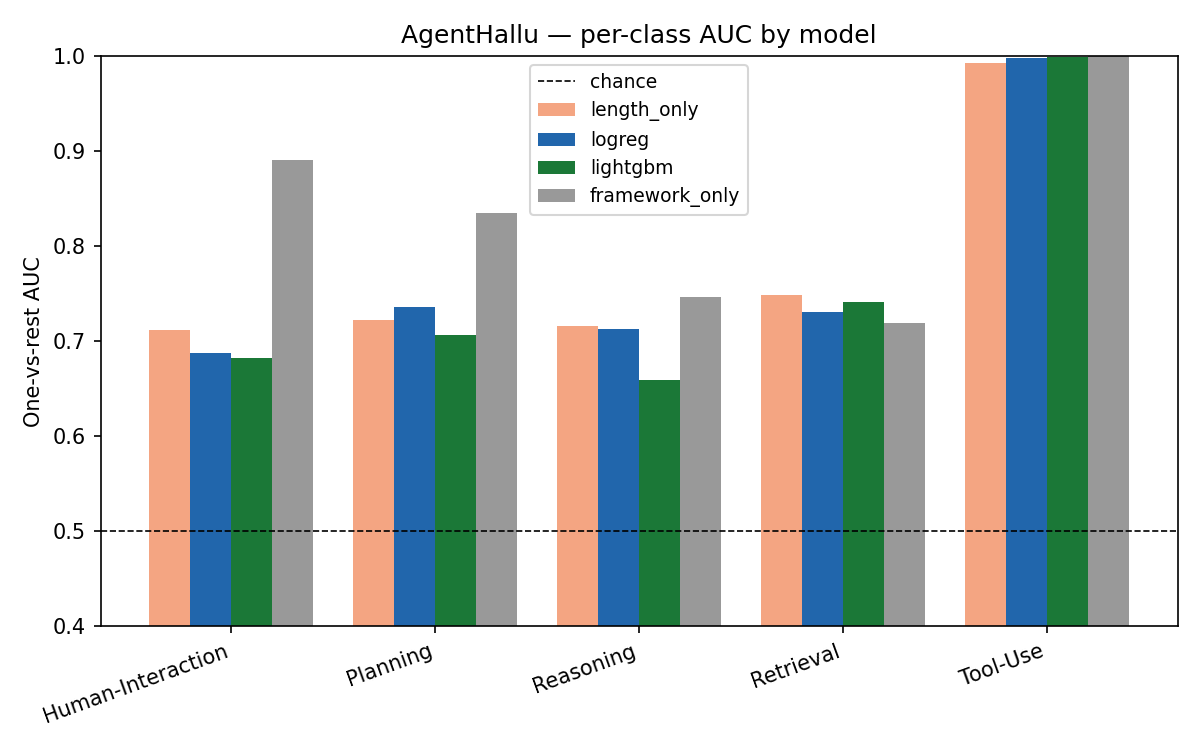
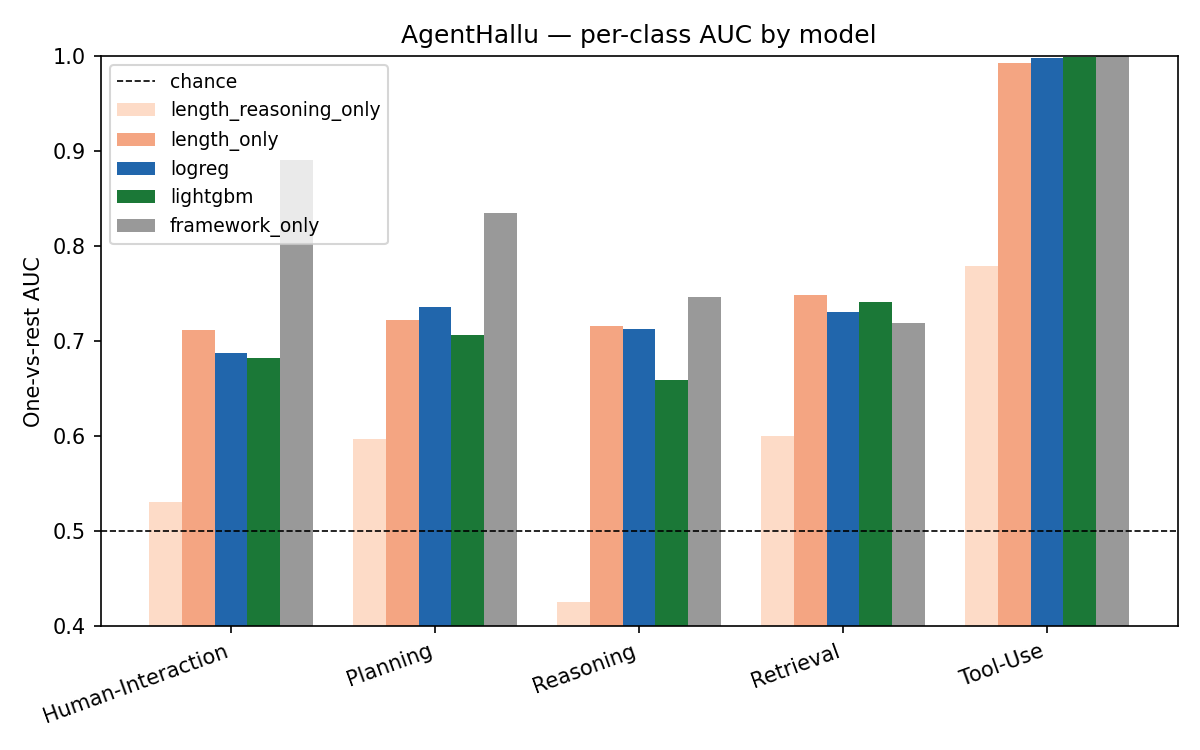
SH6 Stage-5f/5g: add length_reasoning_only baseline, expose answer_n_chunks leakage
The length_only structural baseline (3 chunk-count features) leaks
framework identity through answer_n_chunks: BFCL items have 0 answer
chunks while every other framework has ≥1, and BFCL holds 100% of all
Tool-Use Hallucination cases. The length_only macro AUC of 0.778 on
full AgentHallu was therefore mostly a framework fingerprint, not a
structural signal.

Adds `length_reasoning_only` (just `reasoning_n_chunks`) as the honest
length baseline. The cleanest "shape lift" anchor is now this, not
length_only.

Full AgentHallu (n=443):
  length_reasoning_only:    0.587
  length_only:              0.778   ← +0.192 [+0.160, +0.223]: PURE LEAK
  logreg trajectory_full:   0.773
  lightgbm trajectory_full: 0.758
  framework_only:           0.838

  Δ length_only − length_reasoning_only = +0.192 (significant) directly
  quantifies the leak: adding answer_n_chunks adds 0.192 macro AUC to
  the baseline without contributing any genuine new content signal.

OpenManus (n=84, framework controlled, no leak possible):
  length_reasoning_only:    0.520
  length_only:              0.671   ← real within-framework signal
  logreg:                   0.682
  lightgbm:                 0.712

  Δ lightgbm − length_reasoning_only = +0.194 [+0.081, +0.299]
  significant. With framework constant, both length and shape features
  carry real signal.

Reports and per-class AUC plots updated to show all five baselines
side by side. The length_only confusion matrix is kept as a leakage
[…]

diff --git a/experiments/sh6_llm-pairwise-slod/scripts/05g_agenthallu_categories.py b/experiments/sh6_llm-pairwise-slod/scripts/05g_agenthallu_categories.py
@@ -77,17 +77,25 @@ def _load_labels(dataset_root: Path) -> pd.DataFrame:
 
 
 def _build_estimators(random_state: int, feature_cols: list[str]) -> dict[str, Pipeline]:
-    """Four estimators on the same CV folds:
+    """Five estimators on the same CV folds:
 
-    - ``length_only``      — 3 chunk-count features (structural baseline,
-                             matches the ``length_only`` set in Stage-5).
-                             Lift of trajectory_full over this isolates the
-                             contribution of SLoD shape features.
-    - ``logreg``           — logistic regression on trajectory_full.
-    - ``lightgbm``         — gradient boosting on trajectory_full.
-    - ``framework_only``   — logreg on one-hot ``framework``. Lift over this
-                             tells us how much signal is not just framework
-                             leakage.
+    - ``length_reasoning_only`` — just ``reasoning_n_chunks``. The honest
+                                  length baseline: cannot leak framework
+                                  identity through answer-channel presence.
+    - ``length_only``           — 3 chunk-count features. Kept as a *leakage
+                                  diagnostic*: ``answer_n_chunks`` is 0 for
+                                  100% of BFCL items and >0 elsewhere, so
+                                  it acts as a near-perfect framework
+                                  fingerprint. Treat its lift over
+                                  length_reasoning_only as a measure of how
+                                  much "answer-channel presence" leaks into
+                                  what looks like a structural baseline.
+    - ``logreg``                — logreg on trajectory_full.
+    - ``lightgbm``              — gradient boosting on trajectory_full.
+    - ``framework_only``        — logreg on one-hot ``framework``.
+
+    The cleanest "shape lift" is trajectory_full minus
+    length_reasoning_only, *not* minus length_only.
     """
     from lightgbm import LGBMClassifier
 
@@ -101,6 +109,7 @@ def _build_estimators(random_state: int, feature_cols: list[str]) -> dict[str, P
         ])
 
     return {
+        "length_reasoning_only": _logreg_pipe(),
         "length_only": _logreg_pipe(),
         "logreg": _logreg_pipe(),
         "lightgbm": Pipeline([
@@ -201,6 +210,7 @@ def _plot_per_class_auc(results: dict, classes: list[str], out_path: Path) -> No
 
     fig, ax = plt.subplots(figsize=(8, 5))
     palette = {
+        "length_reasoning_only": "#fddbc7",
         "length_only": "#f4a582",
         "logreg": "#2166ac",
         "lightgbm": "#1b7837",
@@ -266,8 +276,8 @@ def main() -> int:
     cv = StratifiedKFold(n_splits=args.cv_folds, shuffle=True, random_state=args.random_state)
     estimators = _build_estimators(args.random_state, feature_cols)
 
-    LENGTH_COLS = ["reasoning_n_chunks", "answer_n_chunks", "total_n_chunks"]
-    LENGTH_COLS = [c for c in LENGTH_COLS if c in feature_cols]
+    LENGTH_COLS = [c for c in ("reasoning_n_chunks", "answer_n_chunks", "total_n_chunks") if c in feature_cols]
+    LENGTH_REASONING_COLS = [c for c in ("reasoning_n_chunks",) if c in feature_cols]
 
     results: dict[str, dict] = {}
     for name, est in estimators.items():
@@ -275,6 +285,8 @@ def main() -> int:
             X_in = X[["framework"]]
         elif name == "length_only":
             X_in = X[LENGTH_COLS]
+        elif name == "length_reasoning_only":
+            X_in = X[LENGTH_REASONING_COLS]
         else:
             X_in = X[feature_cols]
         logger.info("Fitting %s on %d items × %s", name, len(failures), X_in.shape)
@@ -301,12 +313,19 @@ def main() -> int:
         y, results["framework_only"]["probs"], results["lightgbm"]["probs"], args.n_bootstrap, rng)
     delta_logreg_vs_fw = _bootstrap_paired_macro_auc(
         y, results["framework_only"]["probs"], results["logreg"]["probs"], args.n_bootstrap, rng)
-    # Lift of shape over chunk counts — the cleanest answer to
-    # "do SLoD shape features add anything?".
+    # Lift of shape over chunk counts. We anchor on length_reasoning_only —
+    # the honest length baseline — because length_only leaks framework
+    # identity through answer_n_chunks (BFCL has 0 answer chunks → perfectly
+    # tags Tool-Use Hallucination).
     delta_logreg_vs_length = _bootstrap_paired_macro_auc(
-        y, results["length_only"]["probs"], results["logreg"]["probs"], args.n_bootstrap, rng)
+        y, results["length_reasoning_only"]["probs"], results["logreg"]["probs"], args.n_bootstrap, rng)
     delta_lgbm_vs_length = _bootstrap_paired_macro_auc(
-        y, results["length_only"]["probs"], results["lightgbm"]["probs"], args.n_bootstrap, rng)
+        y, results["length_reasoning_only"]["probs"], results["lightgbm"]["probs"], args.n_bootstrap, rng)
+    # Quantify the leakage: length_only over length_reasoning_only. The
+    # bigger this is, the more the conventional 3-feature length baseline
+    # is just a framework fingerprint.
+    delta_length_leakage = _bootstrap_paired_macro_auc(
+        y, results["length_reasoning_only"]["probs"], results["length_only"]["probs"], args.n_bootstrap, rng)
 
     summary = {
         "n_items": int(len(failures)),
@@ -325,8 +344,9 @@ def main() -> int:
             "lightgbm_minus_logreg": dict(zip(("mean", "ci_low", "ci_high"), delta_lgbm_vs_logreg)),
             "lightgbm_minus_framework_only": dict(zip(("mean", "ci_low", "ci_high"), delta_lgbm_vs_fw)),
             "logreg_minus_framework_only": dict(zip(("mean", "ci_low", "ci_high"), delta_logreg_vs_fw)),
-            "logreg_minus_length_only": dict(zip(("mean", "ci_low", "ci_high"), delta_logreg_vs_length)),
-            "lightgbm_minus_length_only": dict(zip(("mean", "ci_low", "ci_high"), delta_lgbm_vs_length)),
+            "logreg_minus_length_reasoning_only": dict(zip(("mean", "ci_low", "ci_high"), delta_logreg_vs_length)),
+            "lightgbm_minus_length_reasoning_only": dict(zip(("mean", "ci_low", "ci_high"), delta_lgbm_vs_length)),
+            "length_only_minus_length_reasoning_only": dict(zip(("mean", "ci_low", "ci_high"), delta_length_leakage)),
         },
     }
     (out_dir / "agenthallu_classification.json").write_text(json.dumps(summary, indent=2))
@@ -355,12 +375,13 @@ def main() -> int:
         md.append(f"| `{name}` | {r['macro_auc_ovr']:.3f} | {r['balanced_accuracy']:.3f} | {r['accuracy']:.3f} |")
 
     md += ["", "## Per-class AUC (one-vs-rest)", "",
-           "| Class | length_only | logreg | lightgbm | framework_only |",
-           "|---|---:|---:|---:|---:|"]
+           "| Class | length_reasoning_only | length_only | logreg | lightgbm | framework_only |",
+           "|---|---:|---:|---:|---:|---:|"]
     for cls in classes:
         i = class_to_idx[cls]
         md.append(
             f"| `{cls}` | "
+            f"{results['length_reasoning_only']['per_class_auc'][str(i)]:.3f} | "
             f"{results['length_only']['per_class_auc'][str(i)]:.3f} | "
             f"{results['logreg']['per_class_auc'][str(i)]:.3f} | "
             f"{results['lightgbm']['per_class_auc'][str(i)]:.3f} | "
@@ -372,8 +393,9 @@ def main() -> int:
            "|---|---:|---:|---:|:---|"]
     for label, (m, lo, hi) in [
         ("lightgbm − logreg", delta_lgbm_vs_logreg),
-        ("logreg − length_only (shape lift)", delta_logreg_vs_length),
-        ("lightgbm − length_only (shape lift)", delta_lgbm_vs_length),
+        ("logreg − length_reasoning_only (shape lift, clean)", delta_logreg_vs_length),
+        ("lightgbm − length_reasoning_only (shape lift, clean)", delta_lgbm_vs_length),
+        ("length_only − length_reasoning_only (framework leak in length baseline)", delta_length_leakage),
         ("lightgbm − framework_only", delta_lgbm_vs_fw),
         ("logreg − framework_only", delta_logreg_vs_fw),
     ]:
@@ -387,13 +409,15 @@ def main() -> int:
     md += ["", "## Plots", "",
            "![per-class AUC](agenthallu_per_class_auc.png)",
            "",
-           "![length_only confusion](agenthallu_confusion_length_only.png)",
+           "![length_reasoning_only](agenthallu_confusion_length_reasoning_only.png)",
            "",
-           "![logreg confusion](agenthallu_confusion_logreg.png)",
+           "![length_only — leaks framework via answer_n_chunks](agenthallu_confusion_length_only.png)",
            "",
-           "![lightgbm confusion](agenthallu_confusion_lightgbm.png)",
+           "![logreg](agenthallu_confusion_logreg.png)",
            "",
-           "![framework-only confusion](agenthallu_confusion_framework_only.png)",
+           "![lightgbm](agenthallu_confusion_lightgbm.png)",
+           "",
+           "![framework_only](agenthallu_confusion_framework_only.png)",
            ""]
 
     (out_dir / "agenthallu_classification.md").write_text("\n".join(md))

diff --git a/experiments/sh6_llm-pairwise-slod/scripts/05f_openmanus_categories.py b/experiments/sh6_llm-pairwise-slod/scripts/05f_openmanus_categories.py
@@ -101,6 +101,7 @@ def _build_estimators(random_state: int) -> dict[str, Pipeline]:
         ])
 
     return {
+        "length_reasoning_only": _logreg_pipe(),
         "length_only": _logreg_pipe(),
         "logreg": _logreg_pipe(),
         "lightgbm": Pipeline([
@@ -274,10 +275,16 @@ def main() -> int:
     estimators = _build_estimators(args.random_state)
 
     LENGTH_COLS = [c for c in ("reasoning_n_chunks", "answer_n_chunks", "total_n_chunks") if c in feature_cols]
+    LENGTH_REASONING_COLS = [c for c in ("reasoning_n_chunks",) if c in feature_cols]
 
     results: dict[str, dict] = {}
     for name, est in estimators.items():
-        X_in = sub[LENGTH_COLS] if name == "length_only" else X
+        if name == "length_only":
+            X_in = sub[LENGTH_COLS]
+        elif name == "length_reasoning_only":
+            X_in = sub[LENGTH_REASONING_COLS]
+        else:
+            X_in = X
         logger.info("Fitting %s (multiclass) on %d items × %d features", name, len(sub), X_in.shape[1])
         results[name] = _eval_oof(est, X_in, y, cv)
         _plot_confusion(
@@ -297,11 +304,19 @@ def main() -> int:
         y, results["logreg"]["probs"], results["lightgbm"]["probs"],
         args.n_bootstrap, rng,
     )
+    # OpenManus is a single-framework subset, so length_only does NOT leak
+    # framework identity here. We still anchor the "shape lift" on
+    # length_reasoning_only for cross-comparison with the full-AgentHallu
+    # report where the leak does exist.
     delta_logreg_vs_length = _bootstrap_paired_macro_auc(
-        y, results["length_only"]["probs"], results["logreg"]["probs"],
+        y, results["length_reasoning_only"]["probs"], results["logreg"]["probs"],
         args.n_bootstrap, rng,
     )
     delta_lgbm_vs_length = _bootstrap_paired_macro_auc(
+        y, results["length_reasoning_only"]["probs"], results["lightgbm"]["probs"],
+        args.n_bootstrap, rng,
+    )
+    delta_lgbm_vs_length_full = _bootstrap_paired_macro_auc(
         y, results["length_only"]["probs"], results["lightgbm"]["probs"],
         args.n_bootstrap, rng,
     )
@@ -348,11 +363,13 @@ def main() -> int:
         md.append(f"| `{name}` | {r['macro_auc_ovr']:.3f} | {r['balanced_accuracy']:.3f} | {r['accuracy']:.3f} |")
 
     md += ["", "## Per-class AUC (one-vs-rest)", "",
-           "| Class | length_only | logreg | lightgbm |", "|---|---:|---:|---:|"]
+           "| Class | length_reasoning_only | length_only | logreg | lightgbm |",
+           "|---|---:|---:|---:|---:|"]
     for cls in classes:
         i = str(class_to_idx[cls])
         md.append(
             f"| `{cls}` | "
+            f"{results['length_reasoning_only']['per_class_auc'][i]:.3f} | "
             f"{results['length_only']['per_class_auc'][i]:.3f} | "
             f"{results['logreg']['per_class_auc'][i]:.3f} | "
             f"{results['lightgbm']['per_class_auc'][i]:.3f} |"
@@ -363,8 +380,9 @@ def main() -> int:
            "|---|---:|---:|---:|:---|"]
     for label, (m, lo, hi) in [
         ("lightgbm − logreg", delta_lgbm_vs_logreg),
-        ("logreg − length_only (shape lift)", delta_logreg_vs_length),
-        ("lightgbm − length_only (shape lift)", delta_lgbm_vs_length),
+        ("logreg − length_reasoning_only (shape lift, clean)", delta_logreg_vs_length),
+        ("lightgbm − length_reasoning_only (shape lift, clean)", delta_lgbm_vs_length),
+        ("lightgbm − length_only (shape lift over all chunk counts)", delta_lgbm_vs_length_full),
     ]:
         verdict = (
             "significant lift" if (not np.isnan(lo) and lo > 0)
@@ -374,6 +392,8 @@ def main() -> int:
         md.append(f"| {label} | {m:+.3f} | {lo:+.3f} | {hi:+.3f} | {verdict} |")
 
     md += ["", "## Confusion matrices",
+           "",
+           "![length_reasoning_only](openmanus_confusion_length_reasoning_only.png)",
            "",
            "![length_only](openmanus_confusion_length_only.png)",
            "",
@@ -388,13 +408,15 @@ def main() -> int:
     (out_dir / "openmanus_classification.md").write_text("\n".join(md))
 
     logger.info(
-        "Macro AUC: length_only=%.3f, logreg=%.3f, lightgbm=%.3f",
+        "Macro AUC: length_reasoning_only=%.3f, length_only=%.3f, logreg=%.3f, lightgbm=%.3f",
+        results["length_reasoning_only"]["macro_auc_ovr"],
         results["length_only"]["macro_auc_ovr"],
         results["logreg"]["macro_auc_ovr"],
         results["lightgbm"]["macro_auc_ovr"],
     )
     logger.info("Δ lgbm − logreg = %+.3f [%+.3f, %+.3f]", *delta_lgbm_vs_logreg)
-    logger.info("Δ lgbm − length_only = %+.3f [%+.3f, %+.3f]", *delta_lgbm_vs_length)
+    logger.info("Δ lgbm − length_reasoning_only = %+.3f [%+.3f, %+.3f]", *delta_lgbm_vs_length)
+    logger.info("Δ lgbm − length_only = %+.3f [%+.3f, %+.3f]", *delta_lgbm_vs_length_full)
     return 0
 
 

diff --git a/experiments/sh6_llm-pairwise-slod/reports/agenthallu/framework-all/diagnostics/all/agenthallu_classification.md b/experiments/sh6_llm-pairwise-slod/reports/agenthallu/framework-all/diagnostics/all/agenthallu_classification.md
@@ -22,6 +22,7 @@
 
 | Model | Macro AUC (OvR) | Bal. Acc | Acc |
 |---|---:|---:|---:|
+| `length_reasoning_only` | 0.587 | 0.310 | 0.316 |
 | `length_only` | 0.778 | 0.438 | 0.467 |
 | `logreg` | 0.773 | 0.466 | 0.483 |
 | `lightgbm` | 0.758 | 0.455 | 0.485 |
@@ -29,21 +30,22 @@
 
 ## Per-class AUC (one-vs-rest)
 
-| Class | length_only | logreg | lightgbm | framework_only |
-|---|---:|---:|---:|---:|
-| `Human-Interaction Hallucination` | 0.711 | 0.687 | 0.682 | 0.890 |
-| `Planning Hallucination` | 0.723 | 0.736 | 0.706 | 0.835 |
-| `Reasoning Hallucination` | 0.716 | 0.712 | 0.660 | 0.746 |
-| `Retrieval Hallucination` | 0.749 | 0.731 | 0.742 | 0.719 |
-| `Tool-Use Hallucination` | 0.992 | 0.998 | 0.999 | 1.000 |
+| Class | length_reasoning_only | length_only | logreg | lightgbm | framework_only |
+|---|---:|---:|---:|---:|---:|
+| `Human-Interaction Hallucination` | 0.531 | 0.711 | 0.687 | 0.682 | 0.890 |
+| `Planning Hallucination` | 0.598 | 0.723 | 0.736 | 0.706 | 0.835 |
+| `Reasoning Hallucination` | 0.426 | 0.716 | 0.712 | 0.660 | 0.746 |
+| `Retrieval Hallucination` | 0.600 | 0.749 | 0.731 | 0.742 | 0.719 |
+| `Tool-Use Hallucination` | 0.779 | 0.992 | 0.998 | 0.999 | 1.000 |
 
 ## Δ macro-AUC (paired bootstrap, 95% CI)
 
 | Comparison | Δ mean | CI low | CI high | Verdict |
 |---|---:|---:|---:|:---|
 | lightgbm − logreg | -0.015 | -0.035 | +0.005 | inconclusive (CI straddles 0) |
-| logreg − length_only (shape lift) | -0.005 | -0.030 | +0.017 | inconclusive (CI straddles 0) |
-| lightgbm − length_only (shape lift) | -0.020 | -0.045 | +0.005 | inconclusive (CI straddles 0) |
+| logreg − length_reasoning_only (shape lift, clean) | +0.185 | +0.147 | +0.221 | significant lift |
+| lightgbm − length_reasoning_only (shape lift, clean) | +0.171 | +0.133 | +0.207 | significant lift |
+| length_only − length_reasoning_only (framework leak in length baseline) | +0.192 | +0.160 | +0.223 | significant lift |
 | lightgbm − framework_only | -0.081 | -0.108 | -0.053 | significant regression |
 | logreg − framework_only | -0.066 | -0.095 | -0.036 | significant regression |
 
@@ -51,10 +53,12 @@
 
 ![per-class AUC](agenthallu_per_class_auc.png)
 
-![length_only confusion](agenthallu_confusion_length_only.png)
+![length_reasoning_only](agenthallu_confusion_length_reasoning_only.png)
 
-![logreg confusion](agenthallu_confusion_logreg.png)
+![length_only — leaks framework via answer_n_chunks](agenthallu_confusion_length_only.png)
 
-![lightgbm confusion](agenthallu_confusion_lightgbm.png)
+![logreg](agenthallu_confusion_logreg.png)
 
-![framework-only confusion](agenthallu_confusion_framework_only.png)
+![lightgbm](agenthallu_confusion_lightgbm.png)
+
+![framework_only](agenthallu_confusion_framework_only.png)

diff --git a/experiments/sh6_llm-pairwise-slod/reports/agenthallu/framework-all/diagnostics/openmanus/openmanus_classification.md b/experiments/sh6_llm-pairwise-slod/reports/agenthallu/framework-all/diagnostics/openmanus/openmanus_classification.md
@@ -10,27 +10,31 @@
 
 | Model | Macro AUC (OvR) | Bal. Acc | Acc |
 |---|---:|---:|---:|
+| `length_reasoning_only` | 0.520 | 0.339 | 0.274 |
 | `length_only` | 0.671 | 0.560 | 0.488 |
 | `logreg` | 0.682 | 0.458 | 0.452 |
 | `lightgbm` | 0.712 | 0.516 | 0.524 |
 
 ## Per-class AUC (one-vs-rest)
 
-| Class | length_only | logreg | lightgbm |
-|---|---:|---:|---:|
-| `Human-Interaction Hallucination` | 0.484 | 0.559 | 0.575 |
-| `Reasoning Hallucination` | 0.794 | 0.690 | 0.771 |
-| `Retrieval Hallucination` | 0.734 | 0.796 | 0.790 |
+| Class | length_reasoning_only | length_only | logreg | lightgbm |
+|---|---:|---:|---:|---:|
+| `Human-Interaction Hallucination` | 0.395 | 0.484 | 0.559 | 0.575 |
+| `Reasoning Hallucination` | 0.670 | 0.794 | 0.690 | 0.771 |
+| `Retrieval Hallucination` | 0.496 | 0.734 | 0.796 | 0.790 |
 
 ## Δ macro-AUC (paired bootstrap, 95% CI)
 
 | Comparison | Δ mean | CI low | CI high | Verdict |
 |---|---:|---:|---:|:---|
 | lightgbm − logreg | +0.031 | -0.044 | +0.113 | inconclusive (CI straddles 0) |
-| logreg − length_only (shape lift) | +0.008 | -0.092 | +0.105 | inconclusive (CI straddles 0) |
-| lightgbm − length_only (shape lift) | +0.044 | -0.052 | +0.138 | inconclusive (CI straddles 0) |
+| logreg − length_reasoning_only (shape lift, clean) | +0.161 | +0.051 | +0.266 | significant lift |
+| lightgbm − length_reasoning_only (shape lift, clean) | +0.194 | +0.081 | +0.299 | significant lift |
+| lightgbm − length_only (shape lift over all chunk counts) | +0.041 | -0.055 | +0.142 | inconclusive (CI straddles 0) |
 
 ## Confusion matrices
+
+![length_reasoning_only](openmanus_confusion_length_reasoning_only.png)
 
 ![length_only](openmanus_confusion_length_only.png)
 
